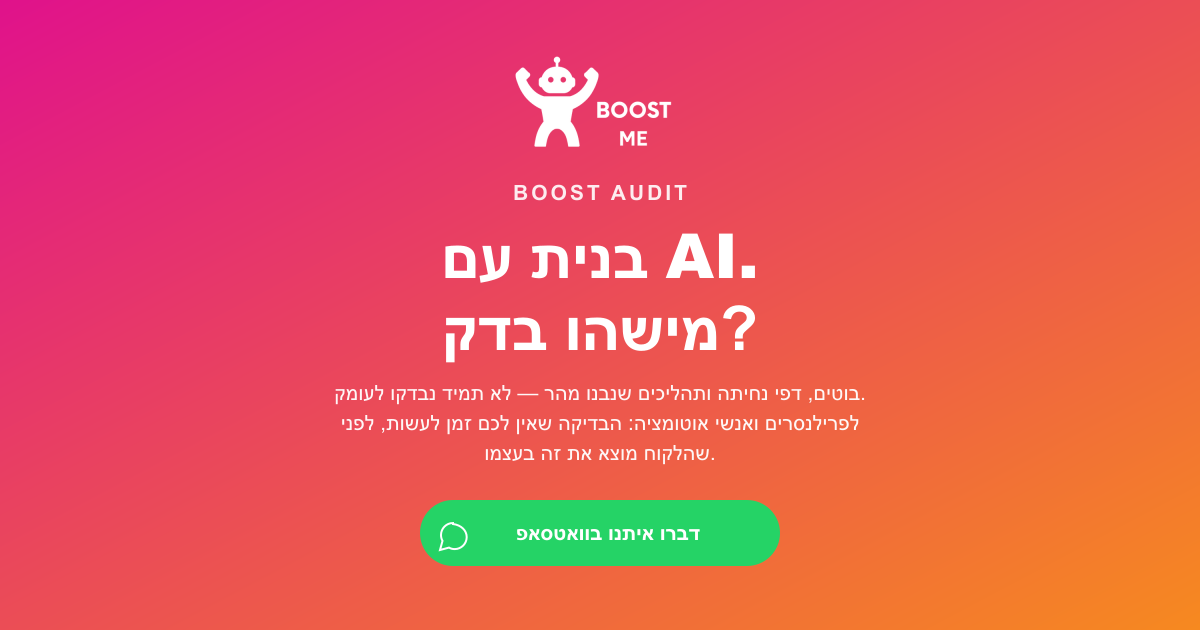
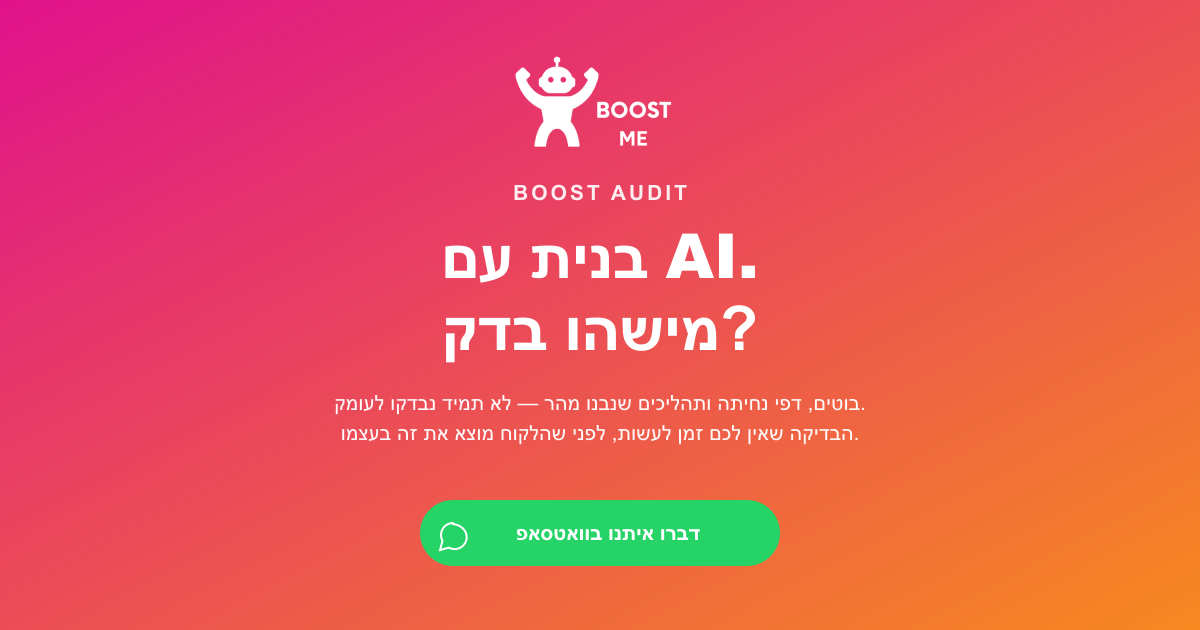
Remove freelancers/automation-people line from hero, update OG image to match

Changed region(s): [[0.2775, 0.6032, 0.7092, 0.754]]

diff --git a/BoostAudit.jsx b/BoostAudit.jsx
@@ -187,7 +187,7 @@ export default function BoostAudit() {
               lineHeight: 1.6,
             }}
           >
-            בוטים, דפי נחיתה ותהליכים שנבנו מהר — לא תמיד נבדקו לעומק. לפרילנסרים ואנשי אוטומציה: הבדיקה שאין לכם זמן לעשות, לפני שהלקוח מוצא את זה בעצמו.
+            בוטים, דפי נחיתה ותהליכים שנבנו מהר — לא תמיד נבדקו לעומק. הבדיקה שאין לכם זמן לעשות, לפני שהלקוח מוצא את זה בעצמו.
           </p>
           <a
             href="#"
